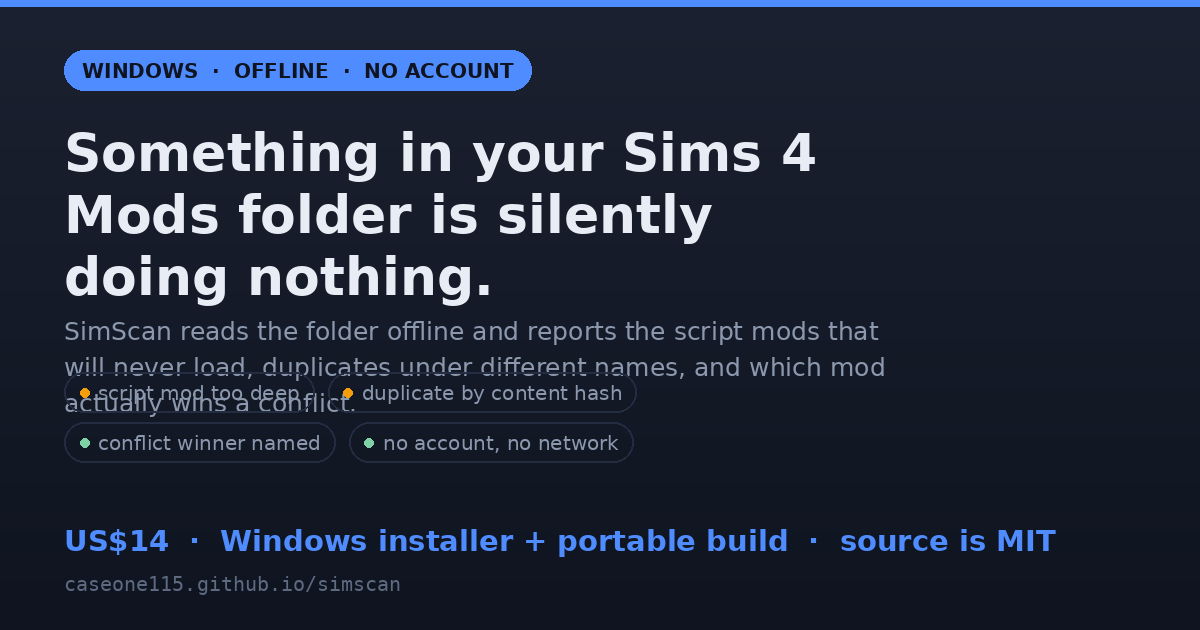
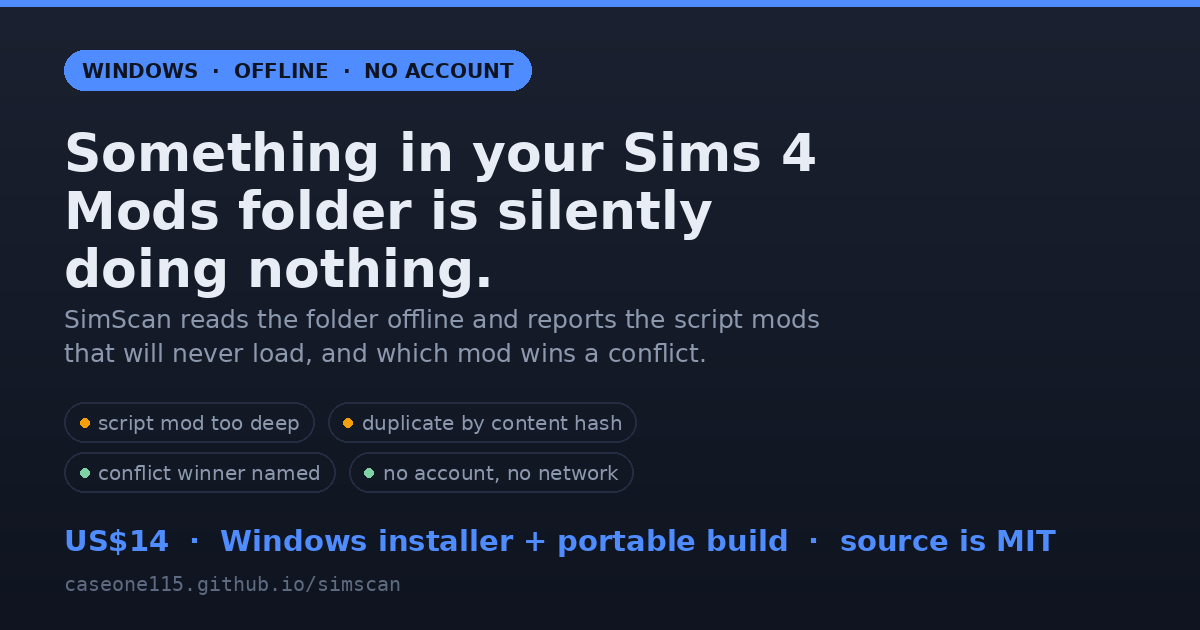
Share card: fix a subtitle line drawn through the chip row, and assert layout
Measuring the finished card band by band showed the third subtitle line
overlapping the chip row by 5px. The generator now records where each block
ends and asserts the next one starts clear of it, so the collision cannot
come back silently.

Changed region(s): [[0.0308, 0.3016, 0.74, 0.7841]]

diff --git a/scripts/make_share_art.py b/scripts/make_share_art.py
@@ -51,24 +51,31 @@ def card(path):
     d.rounded_rectangle([PAD, 50, PAD + w + 36, 50 + 40], radius=20, fill=ACCENT)
     d.text((PAD + 18, 71), label, font=f_badge, fill=BG, anchor="lm")
 
+    # Layout is tracked, not guessed: every block records where it ended and the
+    # next one asserts it starts below it. The first version drew a third
+    # subtitle line straight through the chip row (5px apart) and nothing caught
+    # it until the finished card was measured band by band.
     y = 122
-    for line in ["Something in your Sims 4", "Mods folder is silently", "doing nothing."]:
+    for line in ["Something in your Sims 4", "Mods folder is silently",
+                 "doing nothing."]:
         d.text((PAD, y), line, font=f_title, fill=INK)
-        y += 62
+        y += 58
     y += 8
-    for line in ["SimScan reads the folder offline and reports the script mods that",
-                 "will never load, duplicates under different names, and which mod",
-                 "actually wins a conflict."]:
+    for line in ["SimScan reads the folder offline and reports the script mods",
+                 "that will never load, and which mod wins a conflict."]:
         d.text((PAD, y), line, font=f_sub, fill=MUTED)
-        y += 36
+        y += 34
+    sub_end = y
 
-    # explicit rows: two chips per row, so nothing can wrap where it was not
-    # planned to (the first version packed four into one row and ran 83px over).
+    chips_top = 402
+    assert chips_top - sub_end >= 20, (
+        f"chip row at {chips_top} collides with the subtitle ending at {sub_end}")
+
     chip_rows = [[("script mod too deep", WARN),
                   ("duplicate by content hash", WARN)],
                  [("conflict winner named", GOOD),
                   ("no account, no network", GOOD)]]
-    cy = 372
+    cy = chips_top
     for row in chip_rows:
         x = PAD
         for text, colour in row:
@@ -80,6 +87,9 @@ def card(path):
             d.text((x + 34, cy + 21), text, font=f_chip, fill=MUTED, anchor="lm")
             x += cw + 14
         cy += 50
+    chips_end = cy - 10
+    assert H - 106 - chips_end >= 30, (
+        f"price line collides with the chip rows (chips end {chips_end})")
 
     d.text((PAD, H - 106), "US$14  ·  Windows installer + portable build  ·  source is MIT", font=f_price, fill=ACCENT)
     d.text((PAD, H - 58), "caseone115.github.io/simscan", font=f_mono, fill=DIM)
